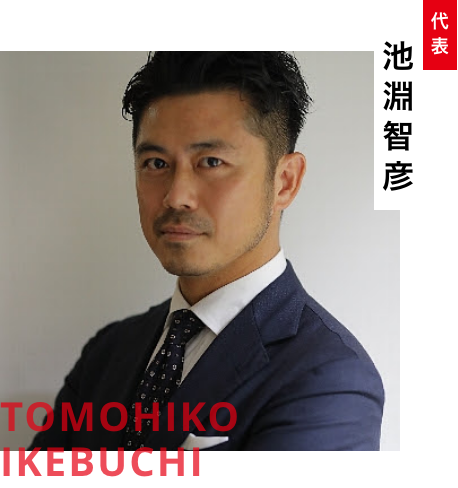
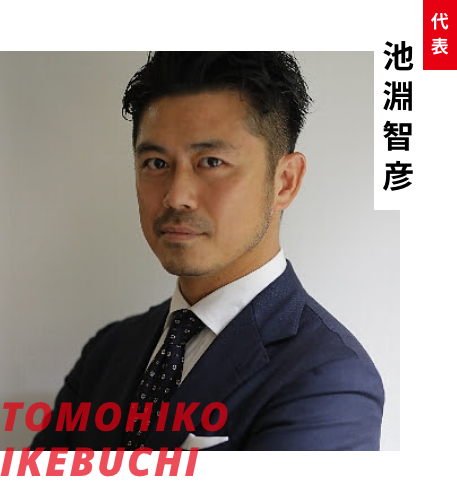
修正完了

diff --git a/styles/index.css b/styles/index.css
@@ -43,7 +43,9 @@ header.header {
     margin-bottom: 30px; }
     header.header .container .title {
       color: #E60012;
-      font-weight: 700; }
+      font-weight: 800;
+      font-style: italic;
+    padding-bottom: 15px;}
     header.header .container .list {
       display: flex;
       justify-content: space-between; }
@@ -92,7 +94,8 @@ header.navbar a.main-color {
   .about h2 {
     font-size: 4.411rem;
     color: #E60012;
-    font-weight: 700;
+    font-weight: 800;
+    font-style: italic;
     letter-spacing: 0.045em;
     margin-bottom: 0; }
     @media screen and (max-width: 767px) {
@@ -102,18 +105,19 @@ header.navbar a.main-color {
     font-size: 1.117rem;
     color: #E60012;
     font-weight: 600;
-    margin-bottom: 20px; }
+    margin-bottom: 25px; }
     @media screen and (max-width: 767px) {
       .about .sub-title {
         font-size: 1.1rem; } }
   .about img {
     max-width: 80%;
-    margin-bottom: 20px; }
+    margin-bottom: 40px; }
   .about h3 {
     color: #E60012;
     font-weight: 600;
     font-size: 2.058rem;
-    margin-bottom: 20px; }
+    margin-bottom: 34px;
+    letter-spacing: 2px;}
     @media screen and (max-width: 767px) {
       .about h3 {
         font-size: 1.5rem; } }
@@ -123,7 +127,10 @@ header.navbar a.main-color {
         .about h3 br {
           display: block; } }
   .about p {
-    font-family: 'Noto Sans JP', sans-serif; }
+    font-family: 'Noto Sans JP', sans-serif;
+    letter-spacing: 1px;
+    line-height: 1.9;
+    padding-bottom: 35px;}
     @media screen and (max-width: 767px) {
       .about p br {
         display: none; } }
@@ -135,7 +142,9 @@ header.navbar a.main-color {
     font-weight: 700; }
   .vision .title {
     font-size: 2.647rem;
-    letter-spacing: 0.045em; }
+    letter-spacing: 0.045em;
+    font-weight: 800;
+    font-style: italic;}
     @media screen and (max-width: 767px) {
       .vision .title {
         font-size: 3rem;
@@ -148,7 +157,9 @@ header.navbar a.main-color {
   .vision .text {
     font-family: 'Noto Sans JP', sans-serif;
     color: #707070;
-    margin-bottom: 40px; }
+    margin-bottom: 40px;
+    line-height: 1.9;
+    letter-spacing: 1.5px;}
     @media screen and (max-width: 767px) {
       .vision .text br {
         display: none; } }
@@ -164,7 +175,7 @@ header.navbar a.main-color {
       border: none;
       text-align: center; }
     .vision .card-wrapper .card:nth-of-type(1) {
-      padding: 38px;
+      padding: 40px 70px;
       border-radius: 0;
       box-shadow: 10px 10px #E60012;
       margin-right: 30px; }
@@ -173,13 +184,17 @@ header.navbar a.main-color {
           margin-right: 0;
           margin-bottom: 35px; } }
     .vision .card-wrapper .card:nth-of-type(2) {
-      padding: 38px;
+      padding: 40px 70px;
       border-radius: 0;
       box-shadow: 10px 10px #22B8D7; }
     .vision .card-wrapper .card_sub-title {
       font-size: 40px;
       font-weight: 600;
       color: #707070; }
+    .vision .card_text {
+      line-height: 1.9;
+      letter-spacing: 1.5px;
+    }
 
 .main-title {
   margin: 103px 0 103px 0;
@@ -197,7 +212,7 @@ header.navbar a.main-color {
     transform: translate(-50%, -50%);
     color: #fff;
     font-size: 2.647rem;
-    font-weight: 600;
+    font-weight: 800;
     letter-spacing: 0.045em;
     z-index: 2; }
     @media screen and (max-width: 767px) {
@@ -285,7 +300,9 @@ header.navbar a.main-color {
             color: #E60012;
             font-size: 1.470rem;
             font-weight: 700;
-            margin-bottom: 0; }
+            margin-bottom: 0;
+            font-style: italic;
+            font-weight: 800;}
             @media screen and (max-width: 767px) {
               .activity .container .activity_item:nth-of-type(1) .info .info_header .sub-title {
                 font-size: 1.1rem; } }
@@ -339,7 +356,9 @@ header.navbar a.main-color {
             color: #E60012;
             font-size: 1.470rem;
             font-weight: 700;
-            margin-bottom: 0; }
+            margin-bottom: 0;
+            font-style: italic;
+            font-weight: 800;}
             @media screen and (max-width: 767px) {
               .activity .container .activity_item:nth-of-type(2) .info .info_header .sub-title {
                 font-size: 1.1rem; } }
@@ -392,7 +411,9 @@ header.navbar a.main-color {
             color: #E60012;
             font-size: 1.470rem;
             font-weight: 700;
-            margin-bottom: 0; }
+            margin-bottom: 0;
+            font-style: italic;
+            font-weight: 800;}
             @media screen and (max-width: 767px) {
               .activity .container .activity_item:nth-of-type(3) .info .info_header .sub-title {
                 font-size: 1.1rem; } }
@@ -446,7 +467,9 @@ header.navbar a.main-color {
             color: #E60012;
             font-size: 1.470rem;
             font-weight: 700;
-            margin-bottom: 0; }
+            margin-bottom: 0;
+            font-style: italic;
+            font-weight: 800;}
             @media screen and (max-width: 767px) {
               .activity .container .activity_item:nth-of-type(4) .info .info_header .sub-title {
                 font-size: 1.1rem; } }
@@ -481,7 +504,9 @@ section.for-you .container .for-you_header {
   section.for-you .container .for-you_header .text {
     font-family: 'Noto Sans JP', sans-serif;
     text-align: center;
-    color: #707070; }
+    color: #707070;
+    line-height: 1.9;
+    letter-spacing: 1.5px;}
 section.for-you .container .for-you_body {
   margin-top: 110px; }
   section.for-you .container .for-you_body .item {
@@ -508,7 +533,11 @@ section.for-you .container .for-you_body {
             font-size: 1.3rem; } }
       section.for-you .container .for-you_body .item .info .text {
         font-family: 'Noto Sans JP', sans-serif;
-        line-height: 1.5; }
+        line-height: 1.6;
+            letter-spacing: 1.5px;}
+      .for-you .title {
+        padding-bottom: 15px;
+      }
       section.for-you .container .for-you_body .item .info .actions .btn {
         width: 290px;
         font-size: 19px;
@@ -629,7 +658,18 @@ section.for-you .container .for-you_body {
           color: #E60012;
           font-weight: 600; }
           .message .message-wrapper .profile .text-wrapper .career .title {
-            font-size: 1.1764rem; }
+            font-size: 1.1764rem;
+            font-style: italic;
+            font-weight: 800;
+            font-family: 'Open Sans', sans-serif; }
+          .message .message-wrapper .profile .text-wrapper .career .list-unstyled li {
+            font-weight: 800;
+            padding-bottom: 5px;
+          }
+            .message .message-wrapper .profile .text-wrapper .text {
+              line-height: 1.9;
+              letter-spacing: 1.0px;
+            }
     .message .message-wrapper .body {
       flex-basis: 50%;
       line-height: 1.5em; }
@@ -638,11 +678,18 @@ section.for-you .container .for-you_body {
       @media screen and (max-width: 767px) {
         .message .message-wrapper .body .text br {
           display: none; } }
+      .message .message-wrapper .body ul li {
+        font-weight: 800;
+      }
+      .message .message-wrapper .body .text {
+        line-height: 1.9;
+        letter-spacing: 1.2px;}
   .message h3 {
     text-align: center;
     color: #E60012;
     font-size: 50px;
-    font-weight: 700; }
+    font-weight: 800;
+    font-style: italic;}
   .message .staff-wrapper p {
     margin-bottom: 0; }
   .message .staff-wrapper .staff-list {
@@ -654,25 +701,33 @@ section.for-you .container .for-you_body {
       .message .staff-wrapper .staff-list .staff-item .header {
         position: relative; }
         .message .staff-wrapper .staff-list .staff-item .header img {
-          max-width: 100%; }
+          max-width: 100%;}
         .message .staff-wrapper .staff-list .staff-item .header .name {
           position: absolute;
           left: 10px;
           bottom: 10px;
           color: #E60012;
           font-size: 1.2941rem;
-          font-weight: 700; }
+          font-weight: 800;
+          font-style: italic;}
+          .namejp {
+            font-family: 'Noto Sans JP', sans-serif;
+          font-weight: 700;}
       .message .staff-wrapper .staff-list .staff-item .body {
         font-family: 'Noto Sans JP', sans-serif; }
         .message .staff-wrapper .staff-list .staff-item .body .position {
           color: #E60012;
           line-height: 1;
-          font-size: 1.0588rem; }
+          font-size: 1.0588rem;
+          padding-top: 20px;
+          padding-bottom: 3px;}
         .message .staff-wrapper .staff-list .staff-item .body .name {
           font-size: 1.4706rem;
           line-height: 1; }
         .message .staff-wrapper .staff-list .staff-item .body .text {
-          font-size: 0.8235rem; }
+          font-size: 0.8235rem;
+          line-height: 1.9;
+          letter-spacing: 1.5px;}
 
 section.diary .text {
   font-family: 'Noto Sans JP', sans-serif;
@@ -688,7 +743,9 @@ section.diary .container {
     top: 10px;
     left: 10px; }
     section.diary .container .contents .text {
-      font-size: 14px; }
+      font-size: 14px;
+      line-height: 1.9;
+      letter-spacing: 1.5px}
     section.diary .container .contents .control {
       display: flex;
       align-items: center;
@@ -713,7 +770,8 @@ section.diary .container {
   text-align: center; }
   .supporters .title {
     color: #E60012;
-    font-size: 1.4705rem; }
+    font-size: 1.4705rem;
+    font-weight: 800}
   .supporters .list {
     display: flex;
     width: fit-content;
@@ -838,7 +896,10 @@ section, .supporters {
 .gray {
   background-color: #F2F2F2; }
 
+.open-sans-italic {
+  font-style: italic;
+}
+
 body, html {
   overflow-x: hidden; }
-
 /*# sourceMappingURL=index.css.map */

diff --git a/index.html b/index.html
@@ -10,7 +10,7 @@
     <link rel="preconnect" href="https://fonts.googleapis.com">
     <link rel="preconnect" href="https://fonts.gstatic.com" crossorigin>
     <link
-        href="https://fonts.googleapis.com/css2?family=Noto+Sans+JP:wght@500&family=Open+Sans:ital,wght@0,800;1,400;1,500&display=swap"
+        href="https://fonts.googleapis.com/css2?family=Noto+Sans+JP:wght@500;700&family=Open+Sans:ital,wght@0,800;1,400;1,800?family=Saira+Condensed:wght@500&display=swap"
         rel="stylesheet">
 
     <!-- Bootstrap CSS -->
@@ -45,7 +45,7 @@
         <!-- header PC -->
         <header class="header">
             <div class="container">
-                <h2 class="title">MENU</h2>
+                <h2 class="title open-sans-menu">MENU</h2>
                 <ul class="list list-unstyled">
                     <li class="item"><a href="./#about">私たちについて</a></li>
                     <li class="item"><a href="./#activity">活動内容</a></li>
@@ -297,7 +297,7 @@
     <div class="white">
         <!-- message -->
         <section id="message" class="message">
-            <div class="main-title">
+            <div class="main-title open-sans-italic">
                 <h2>MESSAGE</h2>
             </div>
 
@@ -382,7 +382,7 @@
                         </div>
                         <div class="body">
                             <p class="position mb-1">理事</p>
-                            <p class="name mb-3">山田太郎</p>
+                            <p class="name mb-3 namejp">山田太郎</p>
                             <p class="text">
                                 社会人をスタートし2011年に株式会社MINT TOKYOを設立。地方創生や様々な企画やデザインで多くの地域...
                             </p>
@@ -396,7 +396,7 @@
                         </div>
                         <div class="body">
                             <p class="position mb-1">理事</p>
-                            <p class="name mb-3">山田太郎</p>
+                            <p class="name mb-3 namejp">山田太郎</p>
                             <p class="text">
                                 社会人をスタートし2011年に株式会社MINT TOKYOを設立。地方創生や様々な企画やデザインで多くの地域...
                             </p>
@@ -410,7 +410,7 @@
                         </div>
                         <div class="body">
                             <p class="position mb-1">理事</p>
-                            <p class="name mb-3">山田太郎</p>
+                            <p class="name mb-3 namejp">山田太郎</p>
                             <p class="text">
                                 社会人をスタートし2011年に株式会社MINT TOKYOを設立。地方創生や様々な企画やデザインで多くの地域...
                             </p>
@@ -424,7 +424,7 @@
                         </div>
                         <div class="body">
                             <p class="position mb-1">理事</p>
-                            <p class="name mb-3">山田太郎</p>
+                            <p class="name mb-3 namejp">山田太郎</p>
                             <p class="text">
                                 社会人をスタートし2011年に株式会社MINT TOKYOを設立。地方創生や様々な企画やデザインで多くの地域...
                             </p>

diff --git a/styles/utils/fonts.scss b/styles/utils/fonts.scss
@@ -1,4 +1,4 @@
 // font-weight
 $regular: 300;
 $bold: 600;
-$extra-bold: 700;
+$extra-bold: 800;
